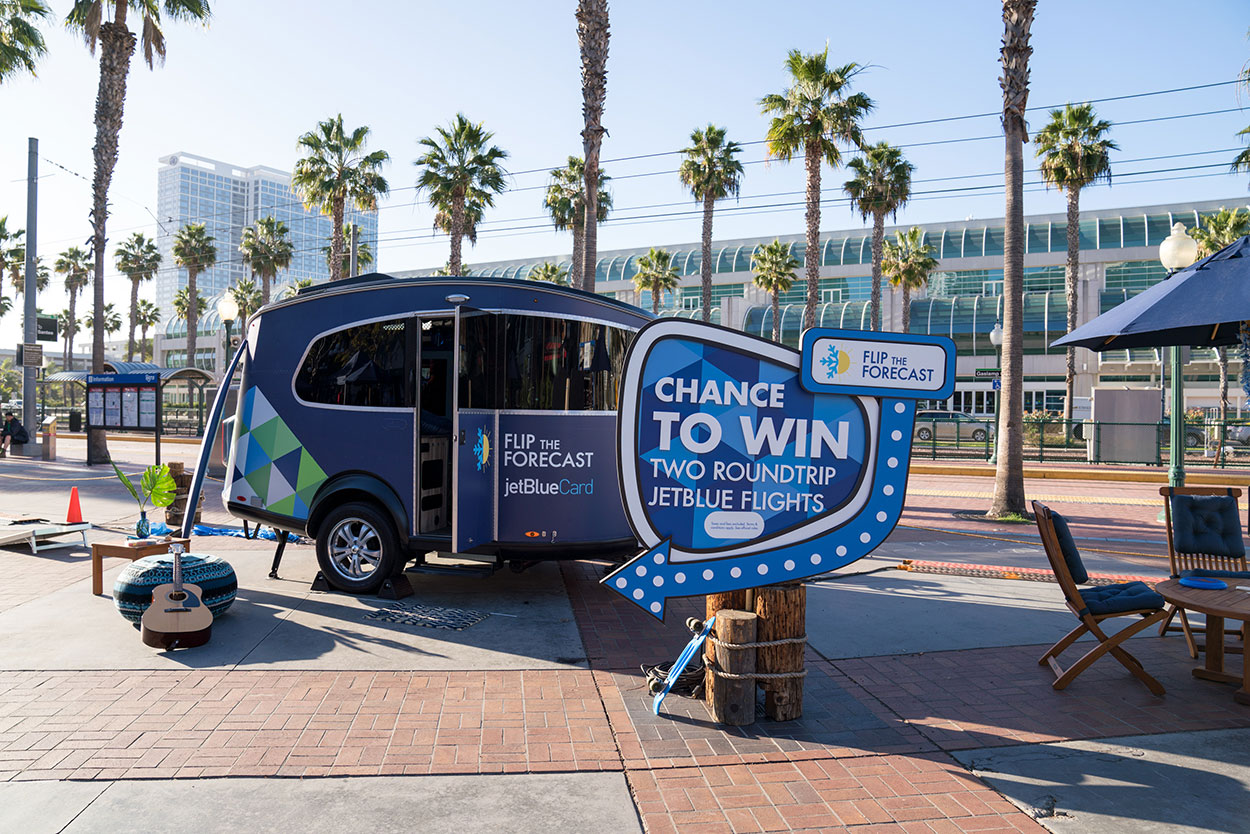
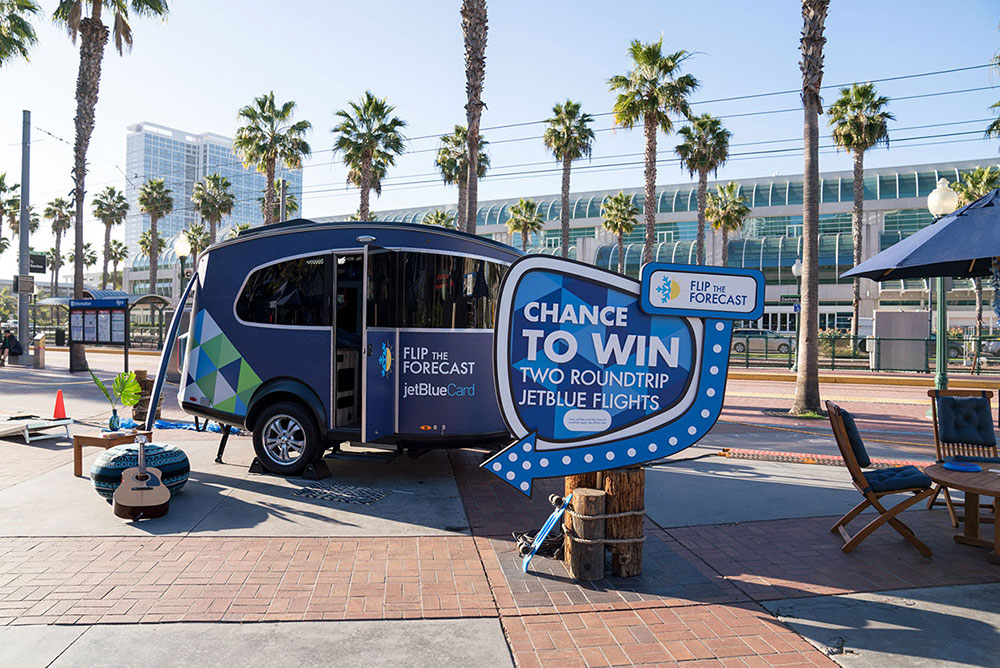
optimizes FTF images

diff --git a/portfolio/flip_the_forecast.html b/portfolio/flip_the_forecast.html
@@ -91,24 +91,22 @@
                 <p>Our one day experiential film shoot drew people from all walks of life and asked them to offer up their best sales pitch. Some begged for mercy, others bragged about the virtues of not being able to feel their own toes, and one person even tried to claim that Boston had better Mexican food…than San Diego. At the end of the day we learned Bostonians would say just about anything for a break from the cold, and San Diegans were shockingly accommodating.</p>
 
                 <div class="portfolio-lightbox top_60 row">
+                    <figure class="col-md-6 bottom_30 lightbox">
+                        <img src="../images/portfolio/flipTheForecast/video_interface.jpg" alt="">
+                    </figure>
                     <figure class="col-md-6 bottom_30">
                         <img src="../images/portfolio/flipTheForecast/BOS_woooooo.jpg" alt="">
                     </figure>
-                    <figure class="col-md-6 bottom_30 lightbox">
-                        <img src="../images/portfolio/flipTheForecast/SD_gaslight.jpg" alt="">
+                    <figure class="col-md-4">
+                        <img src="../images/portfolio/flipTheForecast/BOS_beg.jpg" alt="">
                     </figure>
-                    <figure class="col-md-3">
-                        <img src="../images/portfolio/flipTheForecast/SD_on_set_alt_wide.jpg" alt="">
+                    <figure class="col-md-4">
+                        <img style="padding-top:2em; padding-bottom: 2em;" src="../images/portfolio/flipTheForecast/JBC_FTF_Lockup.png" alt="">
                     </figure>
-                    <figure class="col-md-3">
-                        <img src="../images/portfolio/flipTheForecast/SD_stoaked_wide.jpg" alt="">
+                    <figure class="col-md-4">
+                        <img src="../images/portfolio/flipTheForecast/SD_why.jpg" alt="">
                     </figure>
-                    <figure class="col-md-3">
-                        <img src="../images/portfolio/flipTheForecast/BOS_beg.png" alt="">
-                    </figure>
-                    <figure class="col-md-3">
-                        <img src="../images/portfolio/flipTheForecast/SD_why.png" alt="">
-                    </figure>
+
                 </div>
 
                 <div class="col-md-12 portfolio-nav text-center top_90">

diff --git a/index.html b/index.html
@@ -109,7 +109,7 @@
                         <div class="cbp-item creative">
                             <a href="portfolio/flip_the_forecast.html">
                                 <figure class="fig">
-                                    <img src="images/portfolio/flipTheForecast/SD_on_set_wide.jpg" alt="flip the forecast film shoot">
+                                    <img src="images/portfolio/flipTheForecast/SD_on_set_home_crop.jpg" alt="flip the forecast film shoot">
                                     <figcaption>
                                         <h3>Flip The Forecast</h3>
                                         <p>JetBlue Card</p>
